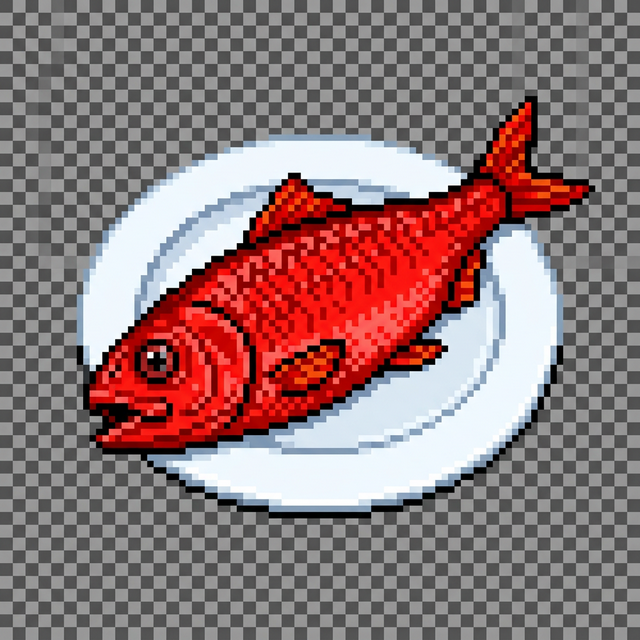
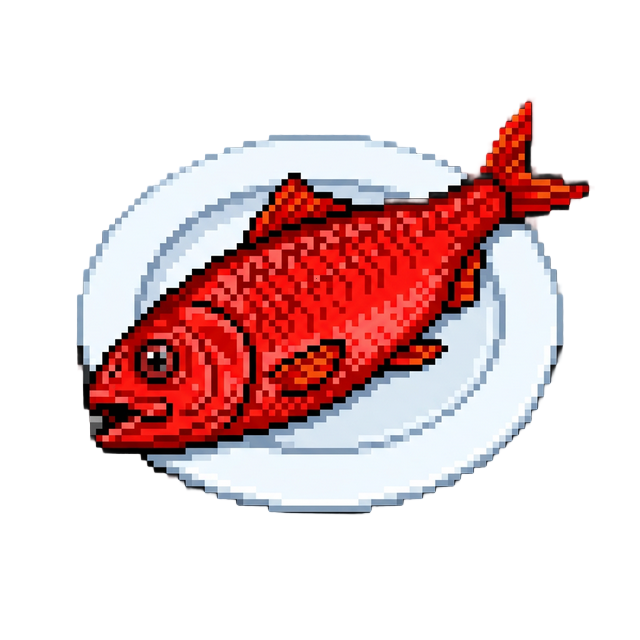
chore: remove transparency handling for cleaned Dave sprite and update assets

diff --git a/game/main.js b/game/main.js
@@ -2470,7 +2470,7 @@ async function main() {
             walkR: { row: 0, count: 6, fps: 8 },
             walkL: { row: 0, count: 6, fps: 8, flipH: true },
         },
-        'auto' // Enable auto-transparency for Dave3.png
+        null // Background already removed in Dave3.png
     );
     animator.play('idle');
 
